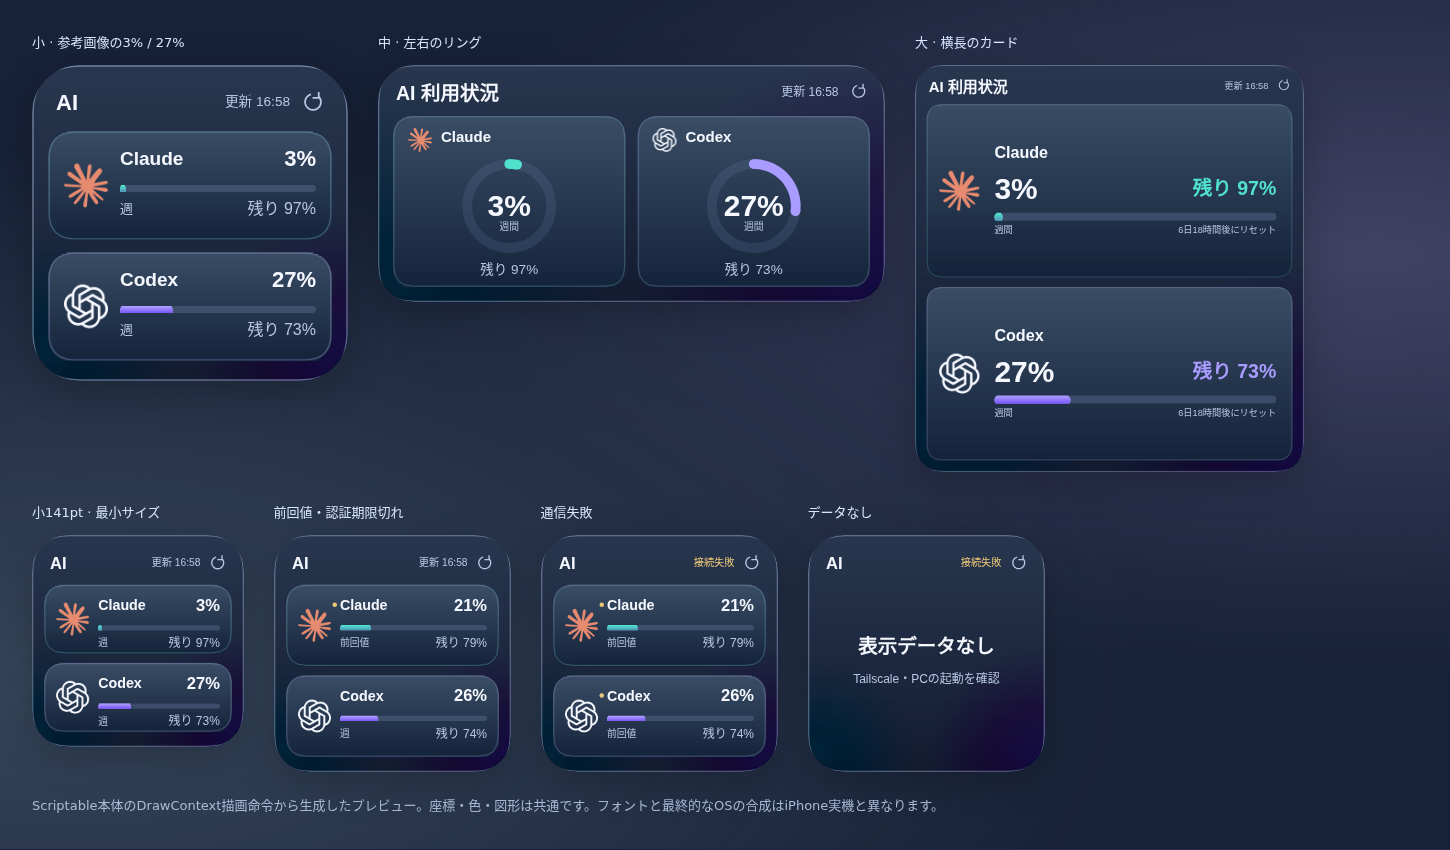
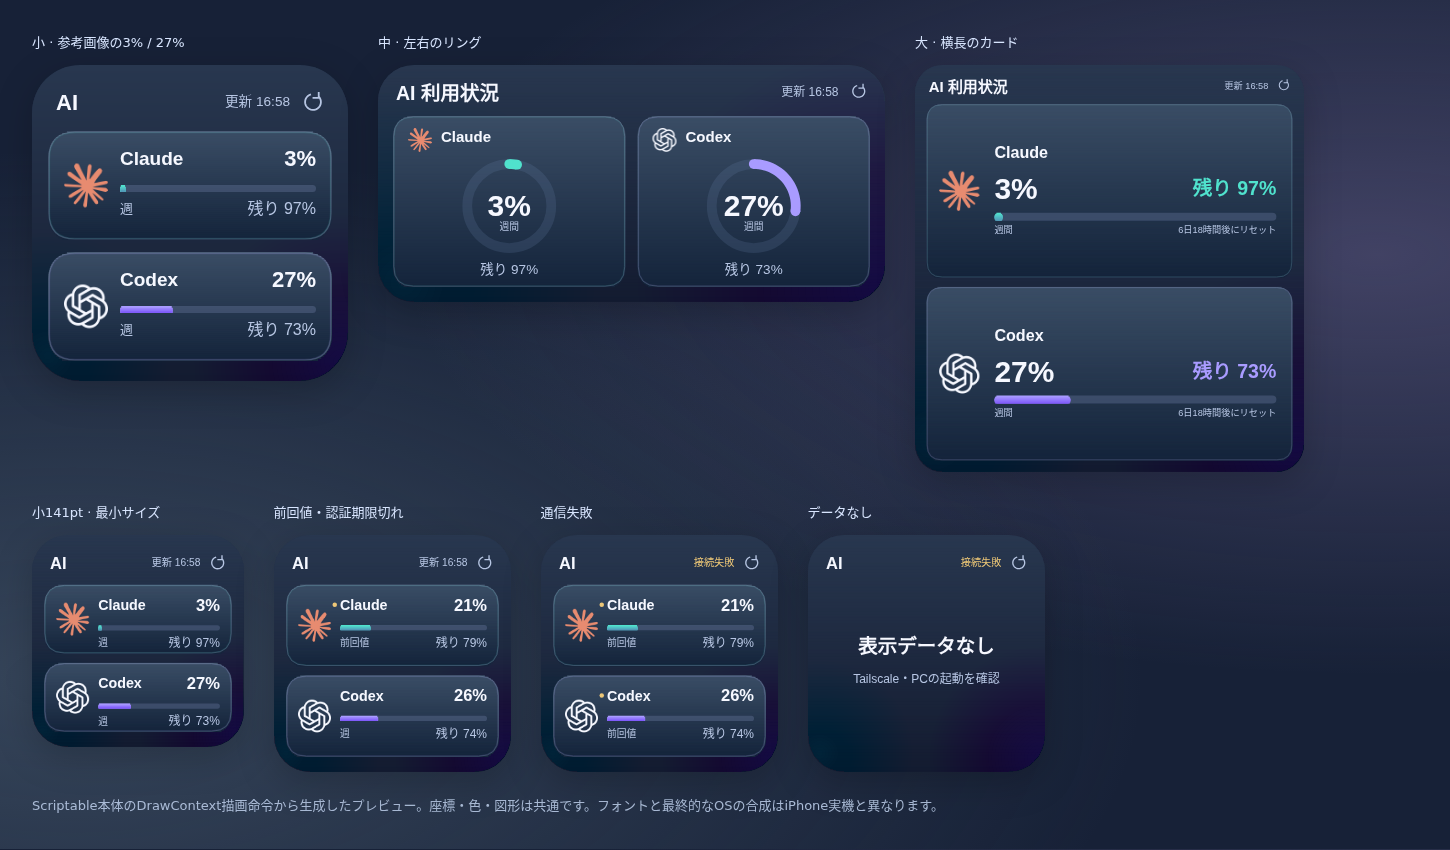
Render widget artwork as an edge-to-edge background

diff --git a/scriptable/AI-Usage.js b/scriptable/AI-Usage.js
@@ -304,11 +304,12 @@ function drawScene(result, family, parameter, now) {
   const providers = visibleProviders(result.data ? result.data.providers : [], parameter, now);
   const visible = providers.slice(0, large ? 3 : 2);
   const ctx = new DrawContext();
-  ctx.size = size; ctx.opaque = false; ctx.respectScreenScale = true;
-  gradient(ctx, 0, 0, size.width, size.height, 24, "28374f", "131b30");
+  // Paint through every edge. WidgetKit supplies the actual container mask;
+  // baked-in rounded corners expose a second background when sizes differ.
+  ctx.size = size; ctx.opaque = true; ctx.respectScreenScale = true;
+  gradient(ctx, 0, 0, size.width, size.height, 0, "28374f", "131b30");
   glow(ctx, size.width * 0.05, size.height * 0.92, size.width * 0.52, "48e5ea", 0.10);
   glow(ctx, size.width * 0.98, size.height * 0.94, size.width * 0.55, "9b71ff", 0.14);
-  rounded(ctx, 0.5, 0.5, size.width - 1, size.height - 1, 24, "c5dcff", 0.45, 0.7);
   const headerY = small ? 12 : 11;
   drawText(ctx, small ? "AI" : "AI 利用状況", 12, headerY, small ? 25 : 130, 19, small ? 11 : 13, COLORS.text, true);
   const updated = result.offline ? "接続失敗" : clockLabel(visible, now);
@@ -344,10 +345,10 @@ function renderWidget(result, family, parameter, now) {
   url += `${url.includes("?") ? "&" : "?"}family=${encodeURIComponent(family)}`;
   if (parameter) url += `&providers=${encodeURIComponent(parameter)}`;
   widget.url = url;
-  const image = widget.addImage(drawScene(result, family, parameter, now));
-  image.imageSize = widgetSize(family);
-  image.resizable = true;
-  image.leftAlignImage();
+  // A background fills the real widget bounds; an explicitly sized image is
+  // fitted as content and can leave gutters on different devices / zoom modes.
+  widget.backgroundImage = drawScene(result, family, parameter, now);
+  widget.addSpacer();
   return widget;
 }
 async function main() {

diff --git a/docs/scriptable.md b/docs/scriptable.md
@@ -69,8 +69,10 @@ Claude・Codexは取得エラー時も状態を表示します。
 Claudeはミント、Codexは紫で表示します。GNOME版のペース差はウィジェットには表示しません。
 
 背景・カード・文字・ロゴ・グラフはScriptableのDrawContextで一枚の画像に描画します。
-カードの角丸・ハイライト・下端の色付きの光を含めて座標を固定し、画像を同じ縦横比で
-配置します。画像内の更新時刻は `HH:mm`、別日のデータは日付も添えます。
+カードの角丸・ハイライト・下端の色付きの光を含めて座標を固定します。画像は固定サイズの
+コンテンツとして置かず、ウィジェットの背景に設定して実際の表示領域を埋めます。
+外周は不透明な四角い画像とし、角丸はiOSのマスクに任せます。独自の外枠は描きません。
+画像内の更新時刻は `HH:mm`、別日のデータは日付も添えます。
 Scriptableの公開APIから壁紙を動的に屈折させる指定はできないため、ガラス風の背景は
 静的な描画です。表示全体を画像にしたため、個々の項目のVoiceOver読み上げは提供しません。
 
